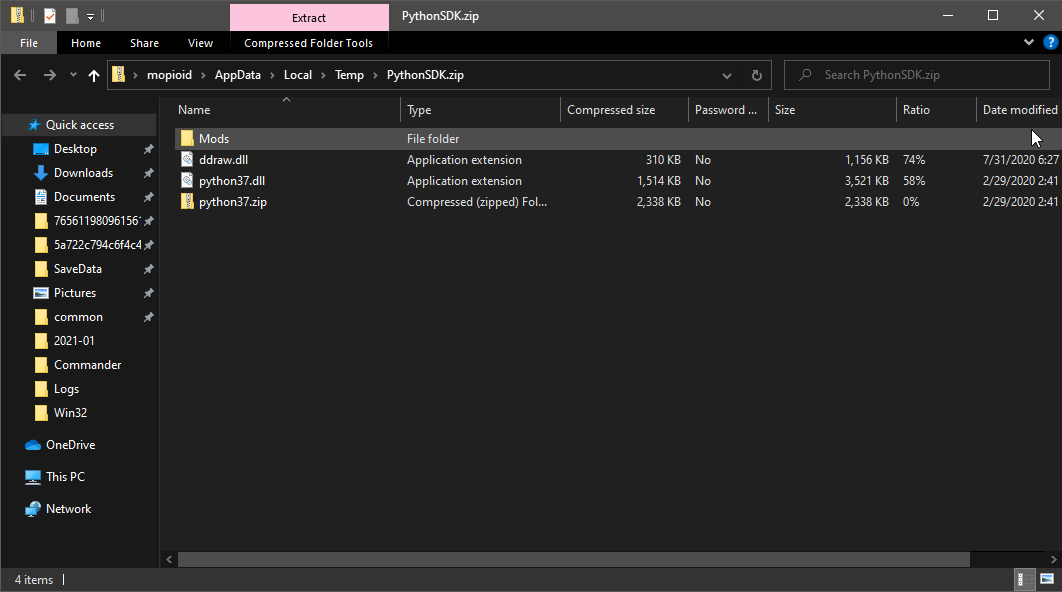
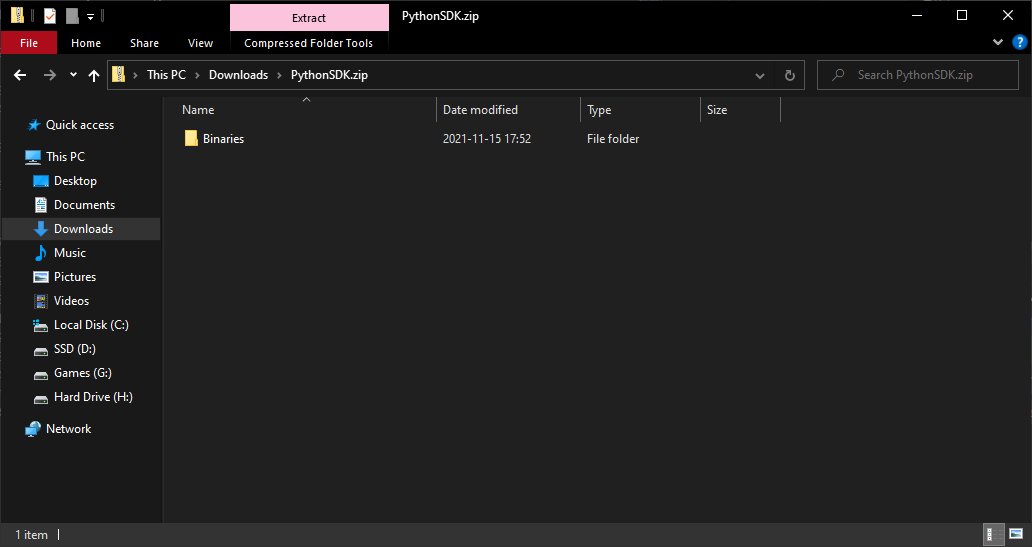
update install instructions with new folder layout (#14)
and a few minor tweaks

diff --git a/index.md b/index.md
@@ -19,22 +19,27 @@ Currently it supports:
 ## SDK Installation
 
 If you're a video guide type person, [apple1417](https://github.com/apple1417) made a video guide:
-![yt](https://www.youtube.com/embed/nvTYjFjQ-HI)
+![yt](https://youtu.be/hsnqPZIc_L8)
 
 But if you're more of a text guide style person:
 
 1. Download the [latest release](https://github.com/bl-sdk/PythonSDK/releases/latest) on Github.
 ![PythonSDK Download Page](/assets/images/posts/installation1.png)
-2. Open `PythonSDK.zip`. It should contain 4 items:
+2. Open `PythonSDK.zip`. It should contain a single `Binaries` folder:
 ![PythonSDK.zip Contents](/assets/images/posts/installation2.png)
-3. Locate your game's files. In Steam, this can be done by right-clicking on the game in your library, selecting "Properties," then in the "Local Files" section, clicking "Browse":
-![Steam Contextual Menu](/assets/images/posts/installation3.png) ![Steam Local Files Properties](/assets/images/posts/installation4.png)
-4. In the game's files, navigate to the `Binaries`, then the `Win32` folder. This folder should contain the `.exe` for your game (i.e. `Borderlands2.exe`, `BorderlandsPreSequel.exe`, or `TinyTina.exe`).
-5. Copy the 4 items from `PythonSDK.zip` **exactly as they** are to the `Win32` folder. Note that `pythonXX.zip` should *not* be un-zipped:
+1. Locate your game's files.
+  
+   In Steam, this can be done by right-clicking on the game in your library, selecting "Properties," then in the "Local Files" section, clicking "Browse":    
+   ![Steam Contextual Menu](/assets/images/posts/installation3.png) ![Steam Local Files Properties](/assets/images/posts/installation4.png)
+
+   The default locations are:    
+   Steam: `C:\Program Files (x86)\Steam\steamapps\common\<game>`    
+   Epic: `C:\Program Files\Epic Games\<game>`    
+2. Copy the `Binaries` folder from `PythonSDK.zip` **exactly as it is** over your game folder, so it merges with the one there.
 ![Win32 Folder Contents](/assets/images/posts/installation5.png)
-6. If you had previously installed an older version of the SDK, delete any old files that weren't overwritten by the ones in the latest `PythonSDK.zip`.
-7. You are done, and may launch the game (if it is running, relaunch it now). You should see a "Mods" menu in the main menu!
-8. If the SDK fails to run with the files correctly in place as described above, you may need to [download and install Microsoft Visual C++ Redistributable](https://aka.ms/vs/16/release/vc_redist.x86.exe).
+5. If you had previously installed an older version of the SDK, delete any old files that weren't overwritten by the ones in the latest `PythonSDK.zip`. The release notes will tell you which ones.
+6. You are done, and may launch the game (if it is running, relaunch it now). You should see a "Mods" menu in the main menu!
+7. If the SDK fails to run with the files correctly in place as described above, you may need to [download and install Microsoft Visual C++ Redistributable](https://aka.ms/vs/16/release/vc_redist.x86.exe).
 
 ## Mod Installation
 Installing mods is even simpler than installing the SDK itself.
@@ -43,14 +48,15 @@ In order to install SDK mods, all you need to do is:
 
 1. Download the mod itself, usually this will be a zip file.
 ![Mod Download Link](/assets/images/posts/mod-install1.png)
-2. Then you can extract the mod folder itself to `Win32/Mods` (See: [Step 5](/#sdk-installation))
-![Extracted Mod Folder](/assets/images/posts/mod-install2.png)
-3. In the root of this new mod folder, there should be an `__init__.py` file.
-  - Depending on the mod, there might be other files in the mod folder, but `__init__.py` is required.
-![`__init__.py`](/assets/images/posts/mod-install3.png)
-4. Certain mods may have requirements, you can see them by looking at the `Requirements` header.
-  - You follow the same steps as you did with installing the main mod as any of the requirements.
-5. More advanced mods could have some extra steps needed to install them, you should always read through the `Description` section of the mod page to make sure that you've installed the mod properly!
+2. With the "General" mod selected, press `O` to open the Mods folder.    
+   ![Open Mods Folder Key](/assets/images/posts/mod-install1.5.png)
+3. Then you can extract the folder from the mod zip file into this Mods folder.    
+   ![Extracted Mod Folder](/assets/images/posts/mod-install2.png)
+   In the root of this new mod folder, there should be an `__init__.py` file. Depending on the mod, there might be other files too, in the mod folder, but the `__init__.py` should always be there.
+   ![`__init__.py`](/assets/images/posts/mod-install3.png)
+4. Restart your game, and the mod will get loaded.
+5. Certain mods may have requirements, you can see them by looking at the `Requirements` header. Follow the exact same steps to install these.
+6. More advanced mods could have some extra steps needed to install them, you should always read through the `Description` section of the mod page to make sure that you've installed the mod properly!
 
 ## Development
 
@@ -71,10 +77,11 @@ you should atleast understand / be proficient in object orientated programming o
 
 One of the more helpful things with writing SDK mods is looking at the game's decompiled UnrealScript code, allowing you to understand what functions do what actions:
 1. Download Gildor's [Unreal Package Decompressor](https://www.gildor.org/downloads) and [UE Explorer](https://eliotvu.com/portfolio/view/21/ue-explorer).
-2. Open up `WillowGame/CookedPCConsole` and then run the decompressor on the UPKs there. You'll really only need to decompile `WillowGame`, `Engine`, and `GearboxFramework`.
-3. Once you've decompiled the UPKs, look at them in UE Explorer, switch to object view, and then scroll/search around for whatever class.
-  - You can also export the decompiled scripts to your disk if you want to use a different text/code editor.
-![Tools -> Exporting -> Export Scripts](/assets/images/posts/mod-dev1.png)
+2. Open up `WillowGame/CookedPCConsole` and then run the decompressor on the relevant UPKs there. `WillowGame` and `Engine` are the most useful, and you may occasionally find `GameFramework` and `GearboxFramework` handy, pretty much everything else can be ignored.
+3. Once you've decompressed the UPKs, look at them in UE Explorer, switch to object view, and then scroll/search around for whatever class.
+   
+   You can also export the decompiled scripts to your disk if you want to use a different text/code editor.    
+   ![Tools -> Exporting -> Export Scripts](/assets/images/posts/mod-dev1.png)
 
 ### Adding to the Database
 In order to add your mods to this database, you need to create a JSON file and host it somewhere, following the format like:

diff --git a/faq.md b/faq.md
@@ -23,17 +23,12 @@ Yes. Usual compatibility concerns still apply, like if several mods change the s
 Text mods can only modify objects once; when run. PythonSDK mods can modify dynamically generated objects and run arbitrary game functions whenever they please.
 
 ## Why do I not see Mods menu after installation?
-- Ensure you have all the required files; your `Binaries/Win32` folder should have:
-    * `ddraw.dll`, 
-    * `pythonXX.dll`, 
-    * `pythonXX.zip`,
-    * A folder named `Mods` **exactly as capitalized**. 
-    The `Mods` subfolder should contain an `__init__.py` and the various mods folders (most importantly `ModMenu`) which should each also have an `__init__.py`.
-- To be certain, download [latest](https://github.com/bl-sdk/PythonSDK/releases) again and extract and overwrite the files. 
-- Ensure you have [Microsoft Visual C++ Redistributable](https://aka.ms/vs/16/release/vc_redist.x86.exe) installed.
-- Console output or the contents of `python-sdk.log` in your `Binaries/Win32` folder may contain clues as to what went wrong.
+- Ensure you have this [Microsoft Visual C++ Redistributable](https://aka.ms/vs/16/release/vc_redist.x86.exe) installed.
+- Make sure you extracted all the files to the correct locations. You want to merge the Binaries folder from the SDK zip with that of your game, you don't want a <game>\PythonSDK\Binaries. Also make sure you haven’t renamed anything either, even the capitalization is importation.
+- Make sure you haven’t overwritten/deleted the contents of your mods folder. There should be a Mods\__init__.py, and the various mods folders (most importantly ModMenu) should each also have a __init__.py in them. If you overwrote files, reinstall to get the originals back.
+- Console output or the contents of `python-sdk.log` in your `Binaries/Win32` folder may contain clues as to what went wrong when asking for further support.
 
-[Video Demonstration](https://www.youtube.com/watch?v=nvTYjFjQ-HI).
+[Video Demonstration](https://youtu.be/hsnqPZIc_L8).
 
 If you are on Linux: PythonSDK does not yet work natively on Linux, but it seems to work well under SteamPlay/Proton and Wine. See [The README section on Linux](https://github.com/bl-sdk/PythonSDK#linux-steamplayproton-and-wine).
 
@@ -41,6 +36,9 @@ If you are on Linux: PythonSDK does not yet work natively on Linux, but it seems
 If you are running a mod or modpack that modifies skills (such as Skill Randomizer, Exodus), it will crash if you try to make a new character with those mods enabled. First make the new character, then enable those mods.
 
 If that is not your situation, try to narrow down the mod that causes the issue by disabling all other mods and restarting to see if it still happens, and when you find the culprit: contact the mod author, if it's a large modpack they may have a discord server you can ask on, or create an issue on their mod's repository if there is one.
+
+## Why do certain mods disable when I restart the game, when others stay enabled?
+Auto enabling is something the mod author needs to turn on themselves. There might be a reason they've chosen to explicitly disable it. Alternatively, if the mod's last update was a while ago, it's possible auto enabling wasn't implemented yet, and you could ask the author to enable it.
 
 <hr/>
 

diff --git a/about.md b/about.md
@@ -8,7 +8,8 @@ Currently the PythonSDK is open-sourced on [Github](https://github.com/bl-sdk/Py
 Right now it supports:
 - Borderlands 2
 - Borderlands: The Pre-Sequel!
+- Tiny Tina's Assault on Dragon Keep: A Wonderlands One-shot Adventure
 
-It is mainly developed by [Matt Hurd / Abahbob](https://github.com/Matt-Hurd), [FromDarkHell](https://github.com/FromDarkHell), [apple1417](https://github.com/apple1417).
+It is mainly developed by [Matt Hurd / Lost_IC](https://github.com/Matt-Hurd), [FromDarkHell](https://github.com/FromDarkHell), [apple1417](https://github.com/apple1417).
 
 Most conversations about the PythonSDK happens over on our [Discord](https://discord.gg/VJXtHvh)
